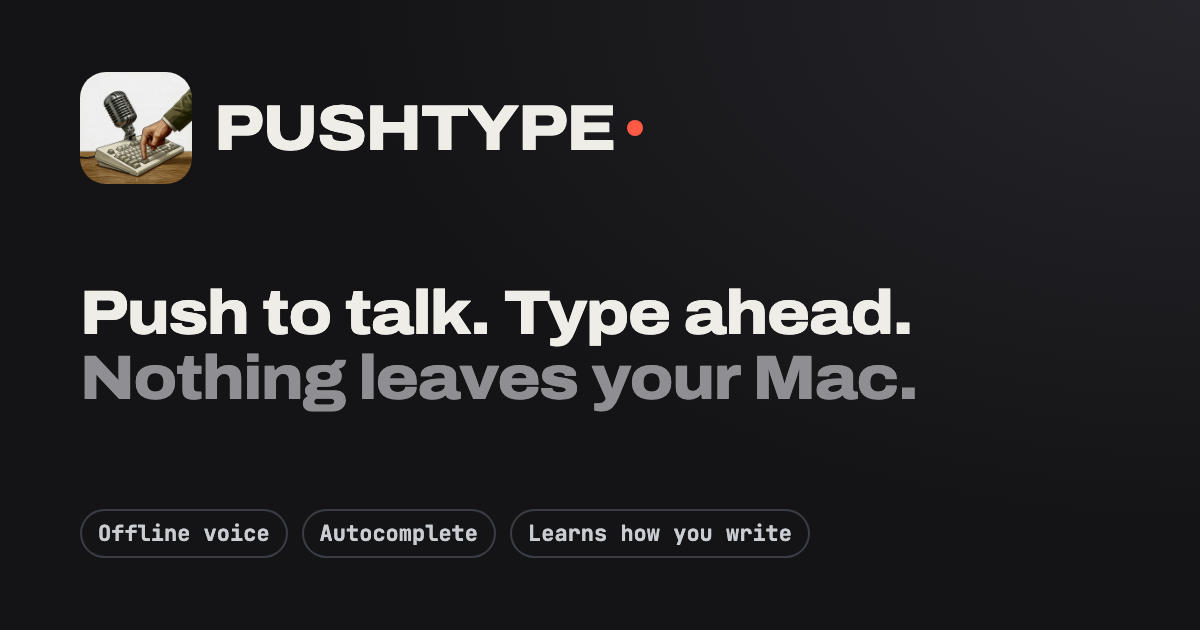
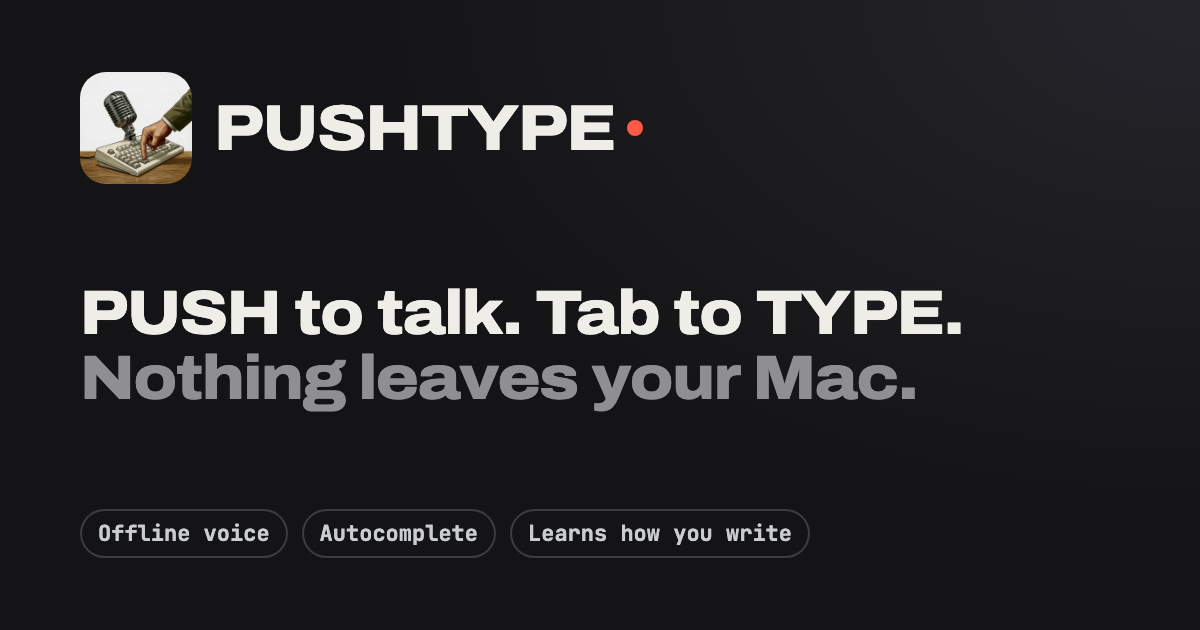
Website: "PUSH to talk. Tab to TYPE."
A friend's line, which spells the name and how each half works. It is
the hero headline (with "Nothing leaves your Mac." leading the lede),
the Voice and Type section labels, the speed cards, the page title and
share tags, and the share card (share.png?v=2 so previews refresh).

Claude-Session: https://claude.ai/code/session_011GGmwUCCy5ARHvirtpqeHL

Changed region(s): [[0.0925, 0.4524, 0.8017, 0.5429]]

diff --git a/website/index.html b/website/index.html
@@ -18,21 +18,21 @@
 
 <meta charset="utf-8">
 <meta name="viewport" content="width=device-width, initial-scale=1">
-<title>PUSHTYPE — Push to talk. Offline voice and autocomplete for Mac.</title>
+<title>PUSHTYPE — PUSH to talk. Tab to TYPE. Offline, on your Mac.</title>
 <meta name="description" content="Dictation and inline autocomplete in one Mac app. Everything runs on your Mac, and it learns how you talk and how you type. $35 once for 3 Macs.">
 <meta property="og:type" content="website">
 <meta property="og:site_name" content="PUSHTYPE">
 <meta property="og:url" content="https://pushtype.app/">
-<meta property="og:title" content="PUSHTYPE — Push to talk. Offline voice and autocomplete for Mac.">
+<meta property="og:title" content="PUSHTYPE — PUSH to talk. Tab to TYPE. Offline, on your Mac.">
 <meta property="og:description" content="Dictation and inline autocomplete in one Mac app. Everything runs on your Mac, and it learns how you talk and how you type. $35 once for 3 Macs.">
-<meta property="og:image" content="https://pushtype.app/assets/share.png">
+<meta property="og:image" content="https://pushtype.app/assets/share.png?v=2">
 <meta property="og:image:width" content="1200">
 <meta property="og:image:height" content="630">
 <meta property="og:image:alt" content="PUSHTYPE: Push to talk. Type ahead. Nothing leaves your Mac.">
 <meta name="twitter:card" content="summary_large_image">
-<meta name="twitter:title" content="PUSHTYPE — Push to talk. Offline voice and autocomplete for Mac.">
+<meta name="twitter:title" content="PUSHTYPE — PUSH to talk. Tab to TYPE. Offline, on your Mac.">
 <meta name="twitter:description" content="Dictation and inline autocomplete in one Mac app. Everything runs on your Mac, and it learns how you talk and how you type. $35 once for 3 Macs.">
-<meta name="twitter:image" content="https://pushtype.app/assets/share.png">
+<meta name="twitter:image" content="https://pushtype.app/assets/share.png?v=2">
 <meta name="robots" content="noindex">
 <link rel="icon" href="assets/icon.png">
 <link rel="preconnect" href="https://fonts.googleapis.com">
@@ -68,8 +68,8 @@
 <section class="wrap hero hero-solo" id="top">
 <div class="stack" style="gap: 28px;">
 <p class="eyebrow">Dictation and autocomplete for the Mac</p>
-<h1 class="disp">Talk or type it. Nothing leaves your Mac.</h1>
-<p class="lede">Hold a key and speak, or just start typing and PUSHTYPE finishes your sentence. Two tools in one app, both running on your Mac, both learning how you write.</p>
+<h1 class="disp">PUSH to talk.<br>Tab to TYPE.</h1>
+<p class="lede"><strong>Nothing leaves your Mac.</strong> Hold a key and speak, or just start typing and PUSHTYPE finishes your sentence. Two tools in one app, both learning how you write.</p>
 <div class="row">
 <a class="pb-btn pb-btn-push" href="#pricing">Buy PUSHTYPE <span class="pb-price">$35</span></a>
 <a class="pb-btn pb-btn-quiet" href="#voice">See what's inside</a>
@@ -86,7 +86,7 @@
 <section class="raised section" id="voice">
 <div class="wrap prompter-wrap type-split">
 <div class="stack">
-<p class="eyebrow">Voice, the dictation</p>
+<p class="eyebrow">PUSH to talk</p>
 <h2 class="disp h2">Hold a key. Speak. Let go.</h2>
 <p style="margin: 0; font: 600 20px/1.45 var(--font-body);">Your words land wherever you were typing, transcribed on your Mac as you speak.</p>
 <p class="body">The “um”s are gone, numbers come out the way you'd write them, and when you change your mind mid-sentence, it follows.</p>
@@ -108,7 +108,7 @@
 <section class="wrap section" id="type">
 <div class="prompter-wrap type-split">
 <div class="stack">
-<p class="eyebrow">Type, the autocomplete</p>
+<p class="eyebrow">Tab to TYPE</p>
 <h2 class="disp h2">Gray ahead of your cursor. Tab to take it.</h2>
 <p style="margin: 0; font: 600 20px/1.45 var(--font-body);">Start typing and the rest of your sentence appears right at the cursor, in the field's own font.</p>
 <p class="body">Take it a word at a time with Tab, all of it with one key, or ignore it and keep typing. When you finish a sentence, the next suggestion is already there.</p>
@@ -248,7 +248,7 @@
 </div>
 <div class="grid g2 speed-stats">
 <div class="card">
-<p class="eyebrow" style="color: var(--ink-muted);">Voice</p>
+<p class="eyebrow" style="color: var(--ink-muted);">PUSH to talk</p>
 <div class="row" style="align-items: baseline;"><span class="big">20×</span><span class="body">faster than Wispr Flow, release to text</span></div>
 <div class="pb-speed">
 <div class="pb-speed-label">PUSHTYPE<small>on your Mac</small></div><div class="pb-speed-track"><div class="pb-speed-fill is-push" style="width: 5%;"></div></div><div class="pb-speed-num">0.04 s</div>
@@ -258,7 +258,7 @@
 <p class="footnote mono measured-link"><a href="benchmark/">How we measured →</a></p>
 </div>
 <div class="card">
-<p class="eyebrow" style="color: var(--ink-muted);">Type</p>
+<p class="eyebrow" style="color: var(--ink-muted);">Tab to TYPE</p>
 <div class="row" style="align-items: baseline;"><span class="big">0.057 s</span><span class="body">from a key to the suggestion on screen</span></div>
 <div class="row" style="align-items: baseline;"><span class="big" style="font-size: 40px;">68%</span><span class="body">of keys already show a suggestion 80 ms later, while you type</span></div>
 <p class="footnote mono">Median, typing 10 keys a second · 11 Oct 2026 · Mac mini (M4), Best model (Gemma 4 E2B). The clock stops when the suggestion is visible on screen, not when the model finishes.</p>

diff --git a/docs/website/share-card.html b/docs/website/share-card.html
@@ -15,6 +15,6 @@ h1{margin:0;font-family:"Archivo";font-stretch:112%;font-weight:800;font-size:62
 .ghost{color:#8e8e93}
 </style></head><body><div class="card">
 <div class="top"><img src="assets/icon.png" alt=""><div class="brand">PUSHTYPE<i></i></div></div>
-<h1>Push to talk. Type ahead.<br><span class="ghost">Nothing leaves your Mac.</span></h1>
+<h1>PUSH to talk. Tab to TYPE.<br><span class="ghost">Nothing leaves your Mac.</span></h1>
 <div class="chips"><span>Offline voice</span><span>Autocomplete</span><span>Learns how you write</span></div>
 </div></body></html>
